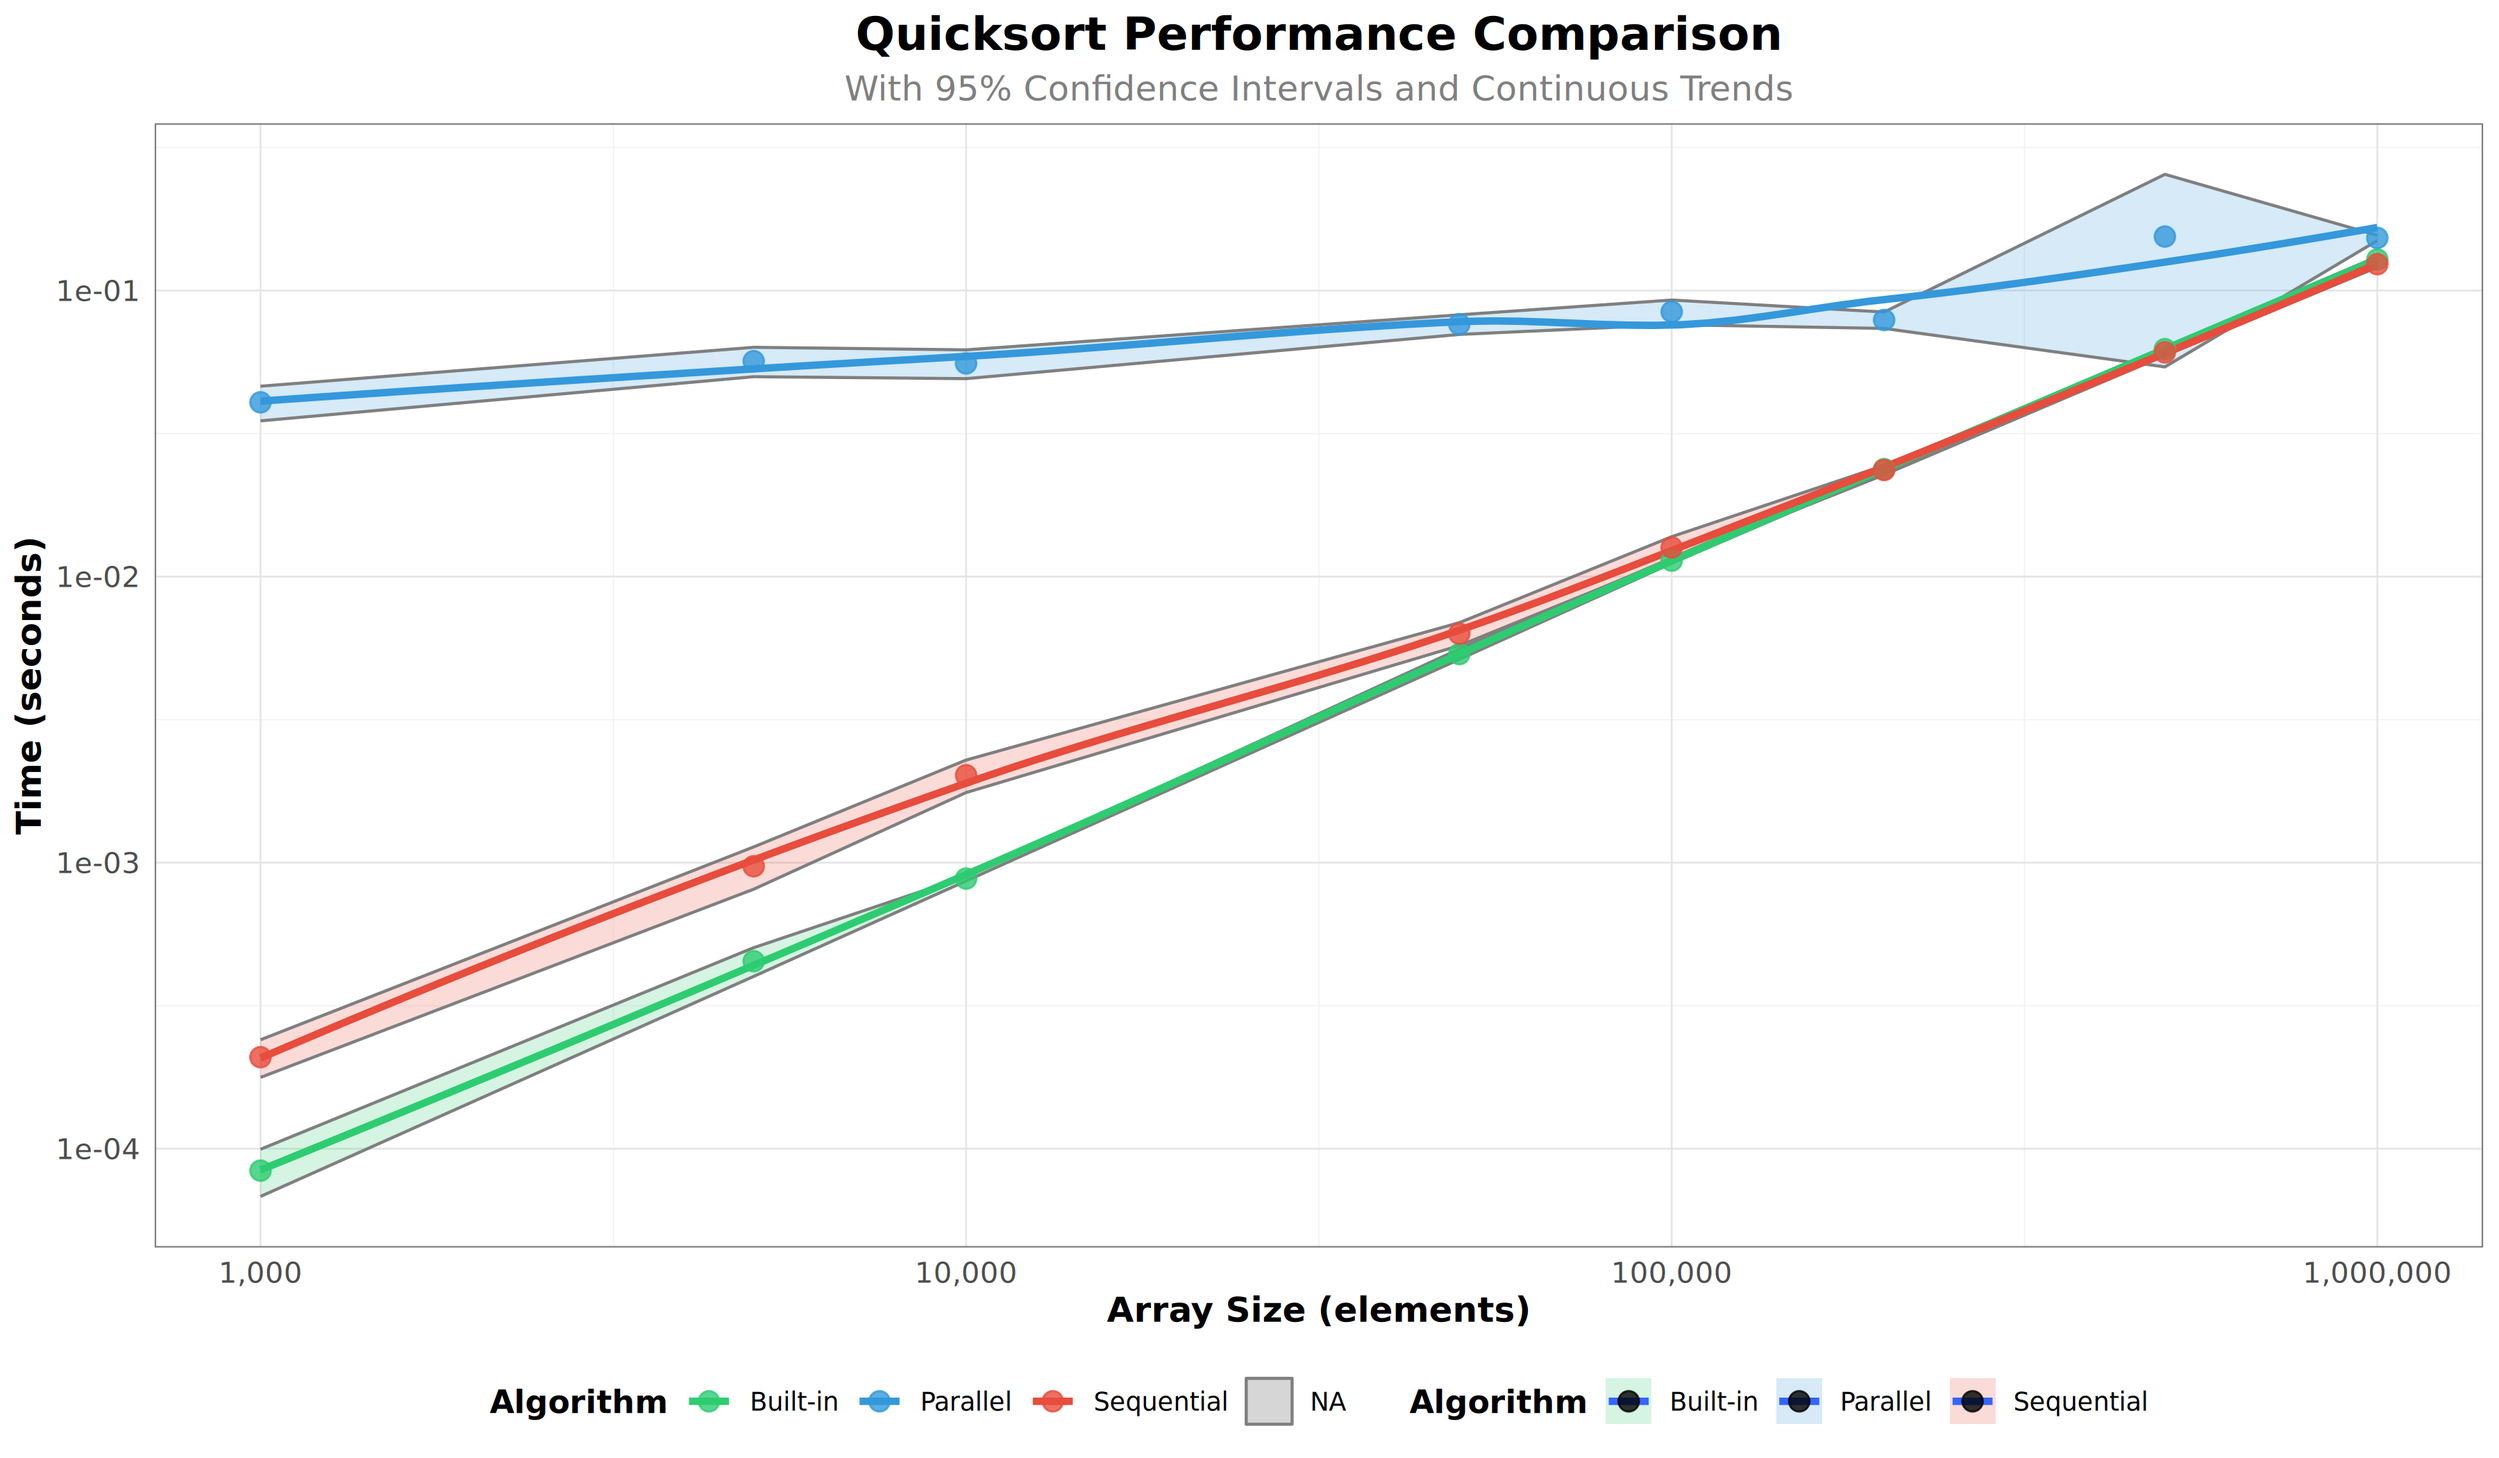
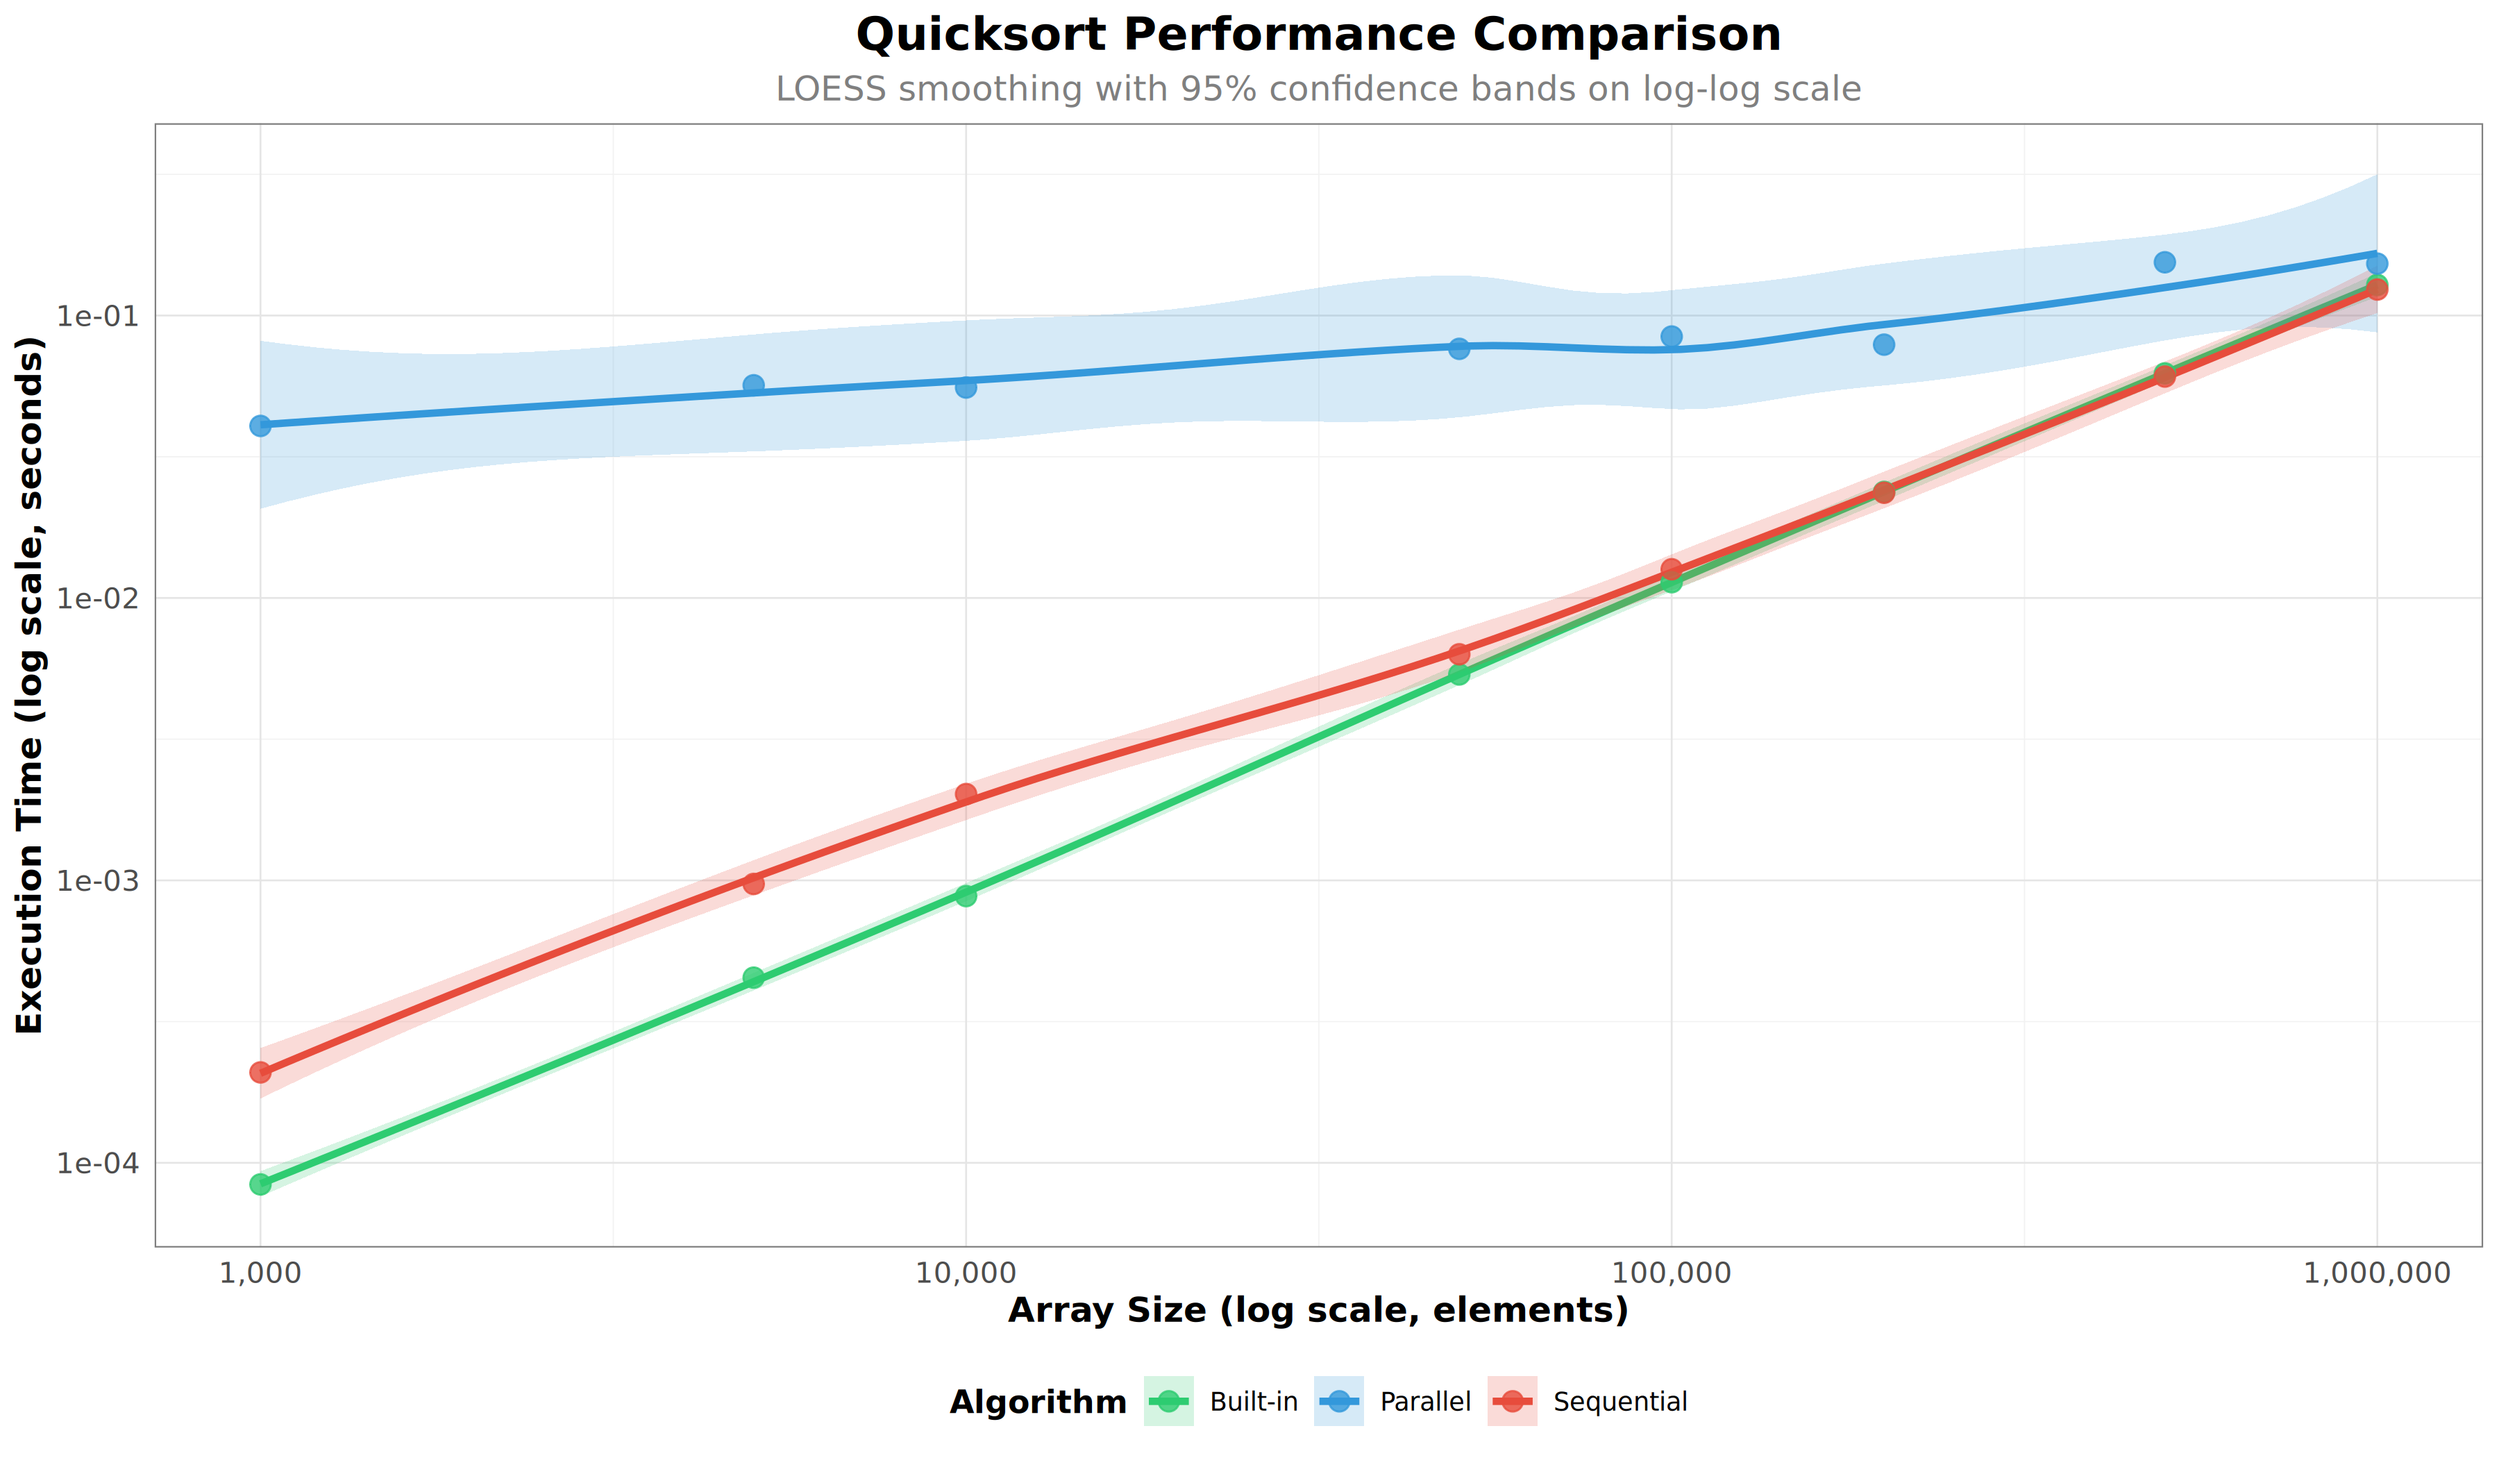
Fix misleading LOESS+CI visualization and clarify log-log scale per professor feedback

diff --git a/Quicksort/README.md b/Quicksort/README.md
@@ -135,13 +135,15 @@ The improved analysis includes:
    - If intervals don't overlap between algorithms, the difference is statistically significant
 
 2. **Continuous Trend Lines**
-   - Smooth curves (LOESS regression) fitted through the data
+   - Smooth curves (LOESS regression) fitted through the data with their own confidence bands
    - Reveals underlying performance patterns beyond individual measurement noise
    - Enables visual identification of performance crossover points
+   - Note: The confidence bands reflect the uncertainty in the fitted curve itself, not the raw measurement variability
 
 3. **Logarithmic Scaling**
-   - Both axes use log scale (appropriate for O(n log n) algorithms)
-   - Makes trends more visible across orders of magnitude
+   - Both X-axis (array size) and Y-axis (execution time) use logarithmic scale
+   - **Rationale:** Quicksort has O(n log n) complexity, meaning execution time grows proportionally to n × log(n). On a log-log plot, this appears as a straight line with slope ≈ 1, making performance trends easier to visualize and compare across multiple orders of magnitude (from 1,000 to 1,000,000 elements)
+   - Makes it easier to identify deviations from expected algorithmic complexity
 
 ### Expected Findings
 
